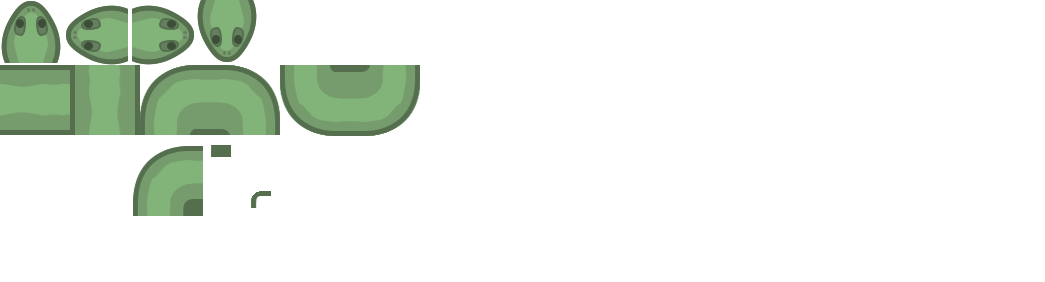
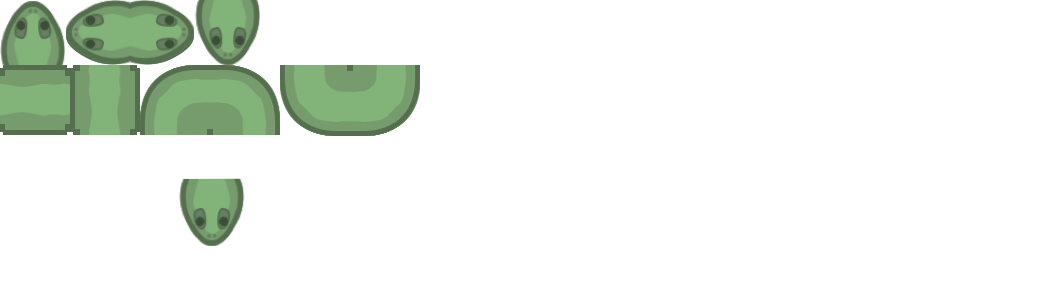
Update Public side: improve snake image.

diff --git a/public/js/game/player.js b/public/js/game/player.js
@@ -4,6 +4,15 @@
  * the display
  */
 class Player {
+  /**
+   * @constructor
+   *
+   * @param {number} x: coordinate x
+   * @param {number} y: coordinate y
+   * @param {number} dir: direction of the snake
+   * @param {number} size: size of the snake
+   * @param {String} color: color of the snake
+   */
   constructor(x, y, dir, score, size, color) {
     this.body = new Array();
     this.body.unshift({"x" : x, "y" : y});
@@ -36,56 +45,35 @@ class Player {
    *
    * @param {number} dir: the new direction given by the server
    */  
-  updateDirection(dir) {
-    var updatedDir, actualDir = this.dir[0];
-    if(this.dir[0] == dir) {
-      if(SNAKES_IMG_SRC[actualDir] == SNAKES_IMG_SRC["left"] ||
-         SNAKES_IMG_SRC[actualDir] == SNAKES_IMG_SRC["right"])
+  updateDirection(nextDir) {
+    var updatedDir, currentDir = this.dir[0], lastDir = this.dir[this.dir.length-1];
+
+    if(this.dir[0] == nextDir) {
+      if(SNAKES_IMG_SRC[currentDir] == SNAKES_IMG_SRC["left"] ||
+         SNAKES_IMG_SRC[currentDir] == SNAKES_IMG_SRC["right"])
         updatedDir = SNAKES_IMG_SRC["lr_body"];
       else
         updatedDir = SNAKES_IMG_SRC["ud_body"];
     }
 
     else {
-      // LEFT
-      if(SNAKES_IMG_SRC[actualDir] == SNAKES_IMG_SRC["left"] &&
-         SNAKES_IMG_SRC[dir] == SNAKES_IMG_SRC["down"]) {
-        updatedDir = SNAKES_IMG_SRC["ul_body"];
-      }
-
-      if(SNAKES_IMG_SRC[actualDir] == SNAKES_IMG_SRC["left"] &&
-         SNAKES_IMG_SRC[dir] == SNAKES_IMG_SRC["up"])
-        updatedDir = SNAKES_IMG_SRC["dr_body"];
-
-      // RIGHT
-      if(SNAKES_IMG_SRC[actualDir] == SNAKES_IMG_SRC["right"] &&
-         SNAKES_IMG_SRC[dir] == SNAKES_IMG_SRC["up"])
-        updatedDir = SNAKES_IMG_SRC["dl_body"];
-
-      if(SNAKES_IMG_SRC[actualDir] == SNAKES_IMG_SRC["right"] &&
-         SNAKES_IMG_SRC[dir] == SNAKES_IMG_SRC["down"])
-        updatedDir = SNAKES_IMG_SRC["ur_body"];
-
-      // UP
-      if(SNAKES_IMG_SRC[actualDir] == SNAKES_IMG_SRC["up"] &&
-         SNAKES_IMG_SRC[dir] == SNAKES_IMG_SRC["right"])
-        updatedDir = SNAKES_IMG_SRC["ul_body"];
-
-      if(SNAKES_IMG_SRC[actualDir] == SNAKES_IMG_SRC["up"] &&
-         SNAKES_IMG_SRC[dir] == SNAKES_IMG_SRC["left"])
-        updatedDir = SNAKES_IMG_SRC["ur_body"];
-
-      // DOWN
-      if(SNAKES_IMG_SRC[actualDir] == SNAKES_IMG_SRC["down"] &&
-         SNAKES_IMG_SRC[dir] == SNAKES_IMG_SRC["right"])
-        updatedDir = SNAKES_IMG_SRC["dr_body"];
-
-      if(SNAKES_IMG_SRC[actualDir] == SNAKES_IMG_SRC["down"] &&
-         SNAKES_IMG_SRC[dir] == SNAKES_IMG_SRC["left"])
-        updatedDir = SNAKES_IMG_SRC["dl_body"];
+      if(this.checkDirections(currentDir, nextDir, "left",  "down"))  updatedDir = SNAKES_IMG_SRC["ul_body"];
+      if(this.checkDirections(currentDir, nextDir, "left",  "up"))    updatedDir = SNAKES_IMG_SRC["dr_body"];
+      if(this.checkDirections(currentDir, nextDir, "right", "up"))    updatedDir = SNAKES_IMG_SRC["dl_body"];
+      if(this.checkDirections(currentDir, nextDir, "right", "down"))  updatedDir = SNAKES_IMG_SRC["ur_body"];
+      if(this.checkDirections(currentDir, nextDir, "up",    "right")) updatedDir = SNAKES_IMG_SRC["ul_body"];
+      if(this.checkDirections(currentDir, nextDir, "up",    "left"))  updatedDir = SNAKES_IMG_SRC["ur_body"];
+      if(this.checkDirections(currentDir, nextDir, "down",  "right")) updatedDir = SNAKES_IMG_SRC["dr_body"];
+      if(this.checkDirections(currentDir, nextDir, "down",  "left"))  updatedDir = SNAKES_IMG_SRC["dl_body"];
     }
-
     this.dir[0] = updatedDir;
-    this.dir.unshift(dir);
+    this.dir.unshift(nextDir);
+  }
+
+  checkDirections(currentDir, nextDir, expectedCurrentDir, expectedNextDir) {
+    if(SNAKES_IMG_SRC[currentDir] == SNAKES_IMG_SRC[expectedCurrentDir] &&
+       SNAKES_IMG_SRC[nextDir] == SNAKES_IMG_SRC[expectedNextDir])
+      return true;
+    return false;
   }
 }

diff --git a/public/js/game/display.js b/public/js/game/display.js
@@ -240,31 +240,29 @@ class Display {
     var image = this.images[SNAKES_IMG_SRC["image"]];
     var sw, sh, sy, sx;
     this.context.beginPath();
-    for(let cell = 0; cell < player.body.length; cell++)
+    for(let cell = 0; cell < player.body.length; cell++) {
       // Draw the head
       if(cell == 0) {
         sw = SNAKES_IMG_SRC["headw"];
         sh = SNAKES_IMG_SRC["headh"];
         sx = SNAKES_IMG_SRC[player.dir[cell]] * sw;
         sy = 0;
-        this.context.drawImage(image, 
-                               sx, sy, 
-                               sw, sh, 
-                               player.body[cell].x * CELL_SIZE - this.camera.x, player.body[cell].y * CELL_SIZE - this.camera.y, 
-                               CELL_SIZE, CELL_SIZE);
       }
+      
       // Draw the tail/body
       else {
         sw = SNAKES_IMG_SRC["bodyw"];
         sh = SNAKES_IMG_SRC["bodyh"];
         sx = player.dir[cell] * sw;
         sy = SNAKES_IMG_SRC["headh"];
-        this.context.drawImage(image, 
-                               sx, sy, 
-                               sw, sh, 
-                               player.body[cell].x * CELL_SIZE - this.camera.x, player.body[cell].y * CELL_SIZE - this.camera.y, 
-                               CELL_SIZE, CELL_SIZE);
       }
+
+      this.context.drawImage(image, 
+                             sx, sy, 
+                             sw, sh, 
+                             player.body[cell].x * CELL_SIZE - this.camera.x, player.body[cell].y * CELL_SIZE - this.camera.y, 
+                             CELL_SIZE, CELL_SIZE);
+    }
     this.context.closePath();
   }
 

diff --git a/public/js/game/game.js b/public/js/game/game.js
@@ -4,6 +4,11 @@
  * display et send the keyboard inputs.
  */
 class Game {
+  /**
+   * @constructor
+   *
+   * @param {Object} socket: socket associating the player and the client
+   */
   constructor(socket) {
     this.socket  = socket;
     this.display = null;
